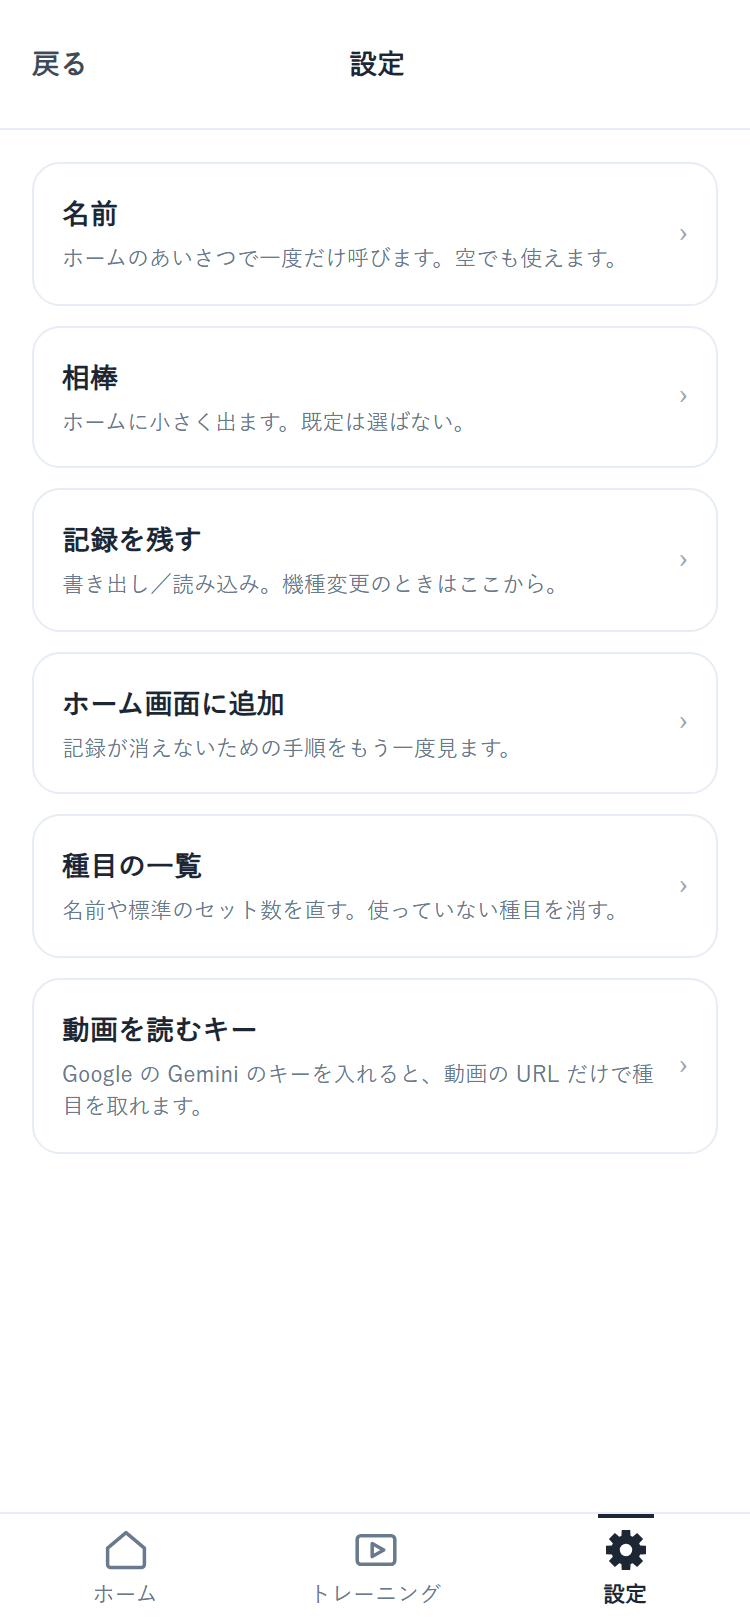
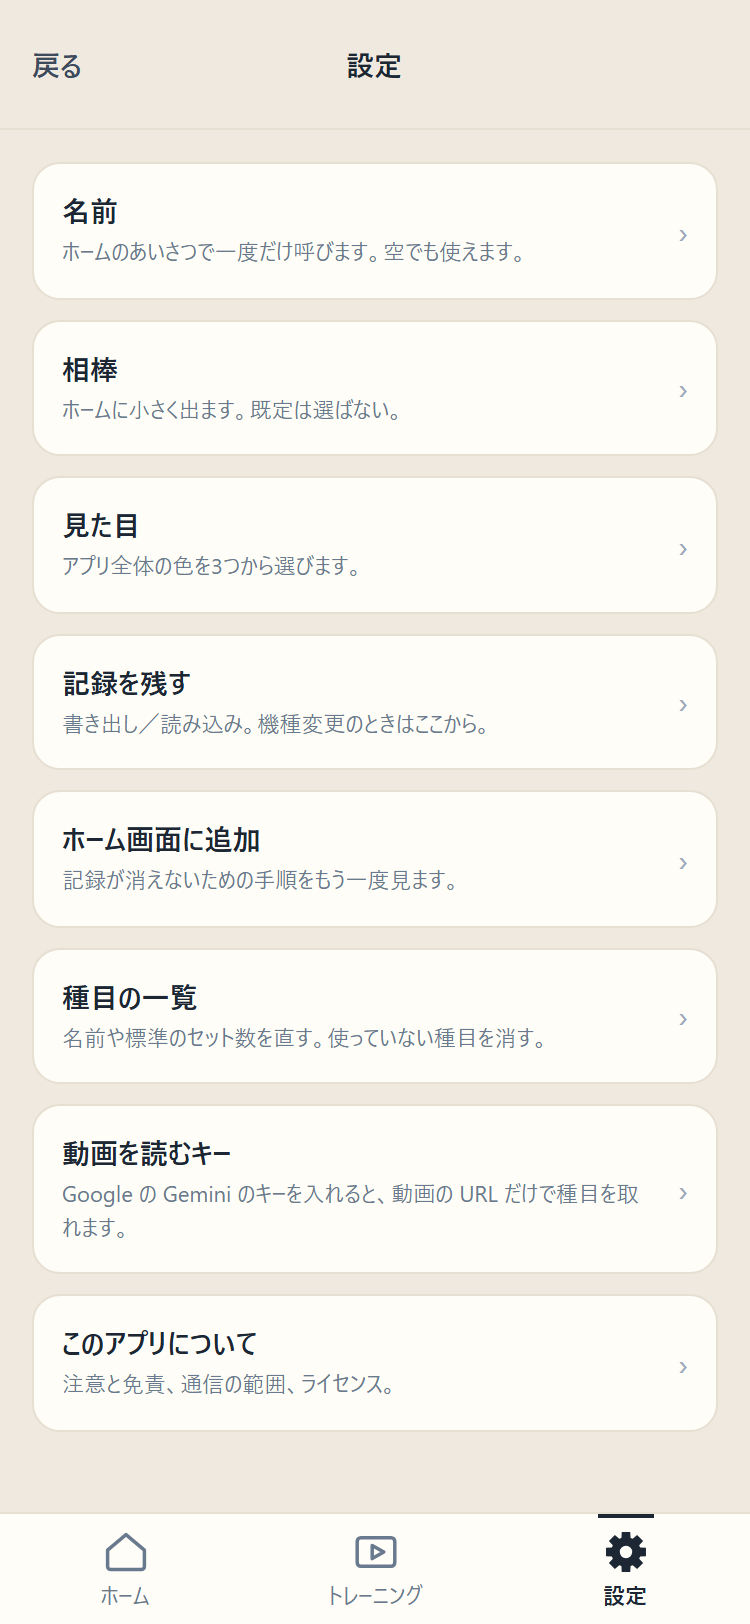
manual: screens reshot on the new look; text for the home order, セルフトレ, the month calendar, and the 見た目 setting

diff --git a/docs/manual.html b/docs/manual.html
@@ -16,14 +16,14 @@ hr{border:0;border-top:1px solid #dce3ec;margin:32px 0}
 strong{color:#0f1a26}
 p{margin:10px 0}
 </style></head>
-<body><main><h1 id="_1">トレ録 使い方</h1>
+<body><main><h1 id="トレ録-使い方">トレ録 使い方</h1>
 <p>自宅でやったトレーニングを、その場で残しておくための記録帳です。
 スマホのブラウザで開いて、ホーム画面に追加すれば、それがインストールです。
 アカウント登録はありません。サーバーもありません。記録は、あなたのスマホの中に保存されます。外に保存されたり、外に出たりすることはありません。</p>
 <p>このページの画面は、すべて架空の例（ニックネーム「たなか」・動画の題名・種目）で撮ったものです。動画のサムネイルは「動画のサムネイル（例）」という灰色の板に置き換えています。</p>
 <p><strong>開く場所：</strong> https://memory2meaning-lgtm.github.io/toreroku/</p>
 <hr />
-<h2 id="_2">目次</h2>
+<h2 id="目次">目次</h2>
 <ol>
 <li><a href="#1-入れ方">入れ方（iPhone／Android）</a></li>
 <li><a href="#2-はじめて開いたときの三つの問い">はじめて開いたときの三つの問い</a></li>
@@ -33,10 +33,11 @@ p{margin:10px 0}
 <li><a href="#6-ふだんは外す">ふだんは外す</a></li>
 <li><a href="#7-記録を残す書き出し機種変更">記録を残す（書き出し・機種変更）</a></li>
 <li><a href="#8-相棒とニックネーム">相棒とニックネーム</a></li>
-<li><a href="#9-よくある質問">よくある質問</a></li>
+<li><a href="#9-見た目を変える">見た目を変える</a></li>
+<li><a href="#10-よくある質問">よくある質問</a></li>
 </ol>
 <hr />
-<h2 id="1">1. 入れ方</h2>
+<h2 id="1-入れ方">1. 入れ方</h2>
 <p>スマホのブラウザで、上の URL を開きます。開けたら、<strong>ホーム画面に追加</strong>してください。見た目のためではなく、記録が消えないための手順です。</p>
 <h3 id="iphonesafari">iPhone（Safari）</h3>
 <ol>
@@ -54,7 +55,7 @@ p{margin:10px 0}
 <p>アプリの中でも、この案内が出ます（Android で開いたときの文面です）。あとで見たいときは、<strong>設定 → ホーム画面に追加</strong> から、いつでも開けます。</p>
 <p>Android では、ホーム画面に追加すると YouTube の共有先に「トレ録」が出るようになります。動画を見ながら共有 → トレ録 と押すと、その動画からトレーニングメニューを作れます。</p>
 <hr />
-<h2 id="2">2. はじめて開いたときの三つの問い</h2>
+<h2 id="2-はじめて開いたときの三つの問い">2. はじめて開いたときの三つの問い</h2>
 <p>はじめて開くと、三つだけ聞かれます。どれも飛ばせますし、あとから <strong>設定</strong> で変えられます。</p>
 <table>
 <thead>
@@ -85,11 +86,11 @@ p{margin:10px 0}
 <p><img src="images/01_welcome.png" width="300" alt="1 / 3 トレ録へようこそ"> <img src="images/02_nickname.png" width="300" alt="2 / 3 何とお呼びすればいいでしょうか"> <img src="images/03_companion.png" width="300" alt="3 / 3 相棒をひとつ"></p>
 <p>三つ答えると、ホーム画面に追加の案内が出て、そのあと最初の画面（ホーム）になります。</p>
 <p><img src="images/05_home_empty.png" width="300" alt="まだ記録が無いホーム"></p>
-<p>ホームには、今週の実績（曜日ごとの四角）、きょうの合計、<strong>記録する</strong> のボタン、きょうの記録が並びます。ホームは見るための画面で、記録は <strong>記録する</strong> から行います。</p>
+<p>ホームには、今週の実績（曜日ごとの四角）、きょう動いた分、今日の記録、いちばん下に <strong>記録する</strong> のボタンが並びます（その日に記録があると <strong>もう1つ記録する</strong> に変わります）。ホームは見るための画面で、記録は <strong>記録する</strong> から行います。</p>
 <hr />
-<h2 id="3">3. トレーニングメニューを作る</h2>
+<h2 id="3-トレーニングメニューを作る">3. トレーニングメニューを作る</h2>
 <p>トレーニングメニューは、動画の URL と種目をまとめたものです。1つ作ると、やった日に丸を押すだけで残ります。作り方は三つあります。</p>
-<h3 id="3-1-url">3-1. 動画の URL を貼る（いちばん簡単）</h3>
+<h3 id="3-1-動画の-url-を貼るいちばん簡単">3-1. 動画の URL を貼る（いちばん簡単）</h3>
 <ol>
 <li>ホームの <strong>記録する</strong> を押す（まだ1つも無いときは、貼る欄がそのまま出ます）</li>
 <li>YouTube で動画を開き、<strong>共有</strong> から URL をコピーする</li>
@@ -99,7 +100,7 @@ p{margin:10px 0}
 <p>題名は動画から自動で入ります。長ければ <strong>短くする</strong>、自分で付けたければ <strong>消して自分で書く</strong> を押します。種目は無くてもかまいません。右上の <strong>保存</strong> で出来上がりです。</p>
 <p><img src="images/07_edit_title.png" width="300" alt="URL を貼ると題名が入った編集画面"></p>
 <p>2つ目からは、下の <strong>トレーニング</strong> のタブを開き、一覧のいちばん下の <strong>＋ トレーニングメニューを追加する</strong> から同じように作ります。</p>
-<h3 id="3-2">3-2. 概要欄を貼って種目にする</h3>
+<h3 id="3-2-概要欄を貼って種目にする">3-2. 概要欄を貼って種目にする</h3>
 <p>動画の概要欄に「3:20 スクワット 12回」のような時間つきの行があるときは、それを種目にできます。</p>
 <ol>
 <li>編集画面の <strong>概要欄を貼る</strong> を押す</li>
@@ -108,7 +109,7 @@ p{margin:10px 0}
 </ol>
 <p>時間の行が種目になり、行末の「12回」は回数に、次の行までの時間の差は秒数になります。「はじめに」「まとめ」のような行は除かれます。入った種目の名前・回数・秒数は、その場で直せます。</p>
 <p><img src="images/08_edit_exercises.png" width="300" alt="概要欄から3種目が入った編集画面"></p>
-<h3 id="3-3-ai-gemini">3-3. 動画を AI に読ませる（自分の Gemini のキーを使う）</h3>
+<h3 id="3-3-動画を-ai-に読ませる自分の-gemini-のキーを使う">3-3. 動画を AI に読ませる（自分の Gemini のキーを使う）</h3>
 <p>Google の Gemini に動画そのものを読ませて、種目・セット数・回数か秒数を取り出す方法です。使うには、<strong>あなた自身の Gemini の API キー</strong>が要ります。</p>
 <ol>
 <li><strong>設定 → 動画を読むキー</strong> を開く</li>
@@ -124,30 +125,30 @@ p{margin:10px 0}
 <li>キーを入れなければ、この通信は一切起きません</li>
 </ul>
 <hr />
-<h2 id="4">4. やった日に記録する</h2>
-<h3 id="4-1">4-1. 全部やった日：行末の丸を押す</h3>
+<h2 id="4-やった日に記録する">4. やった日に記録する</h2>
+<h3 id="4-1-全部やった日行末の丸を押す">4-1. 全部やった日：行末の丸を押す</h3>
 <p>ホームの <strong>記録する</strong> を押すと、トレーニングメニューの一覧が出ます。やったメニューの<strong>行末の丸</strong>を押すだけです。押すと丸が塗られて時刻が入り、ホームに戻ります。</p>
 <p><img src="images/10_record_ready.png" width="300" alt="記録する画面。行末に空の丸"> <img src="images/11_home_done.png" width="300" alt="記録したあとのホーム"></p>
-<h3 id="4-2">4-2. 一部だけやった日：行を押して種目を選ぶ</h3>
+<h3 id="4-2-一部だけやった日行を押して種目を選ぶ">4-2. 一部だけやった日：行を押して種目を選ぶ</h3>
 <p>丸ではなく、<strong>行そのもの</strong>を押すと、種目の一覧が開きます。やった種目だけに印を付けて、下の <strong>選んだ○種目を記録する</strong> を押します。トレーニングメニューそのものは変わりません。</p>
 <p><img src="images/15_partial.png" width="300" alt="やった種目だけ選ぶ画面"></p>
-<h3 id="4-3">4-3. トレーニングメニューに無いものをやった日</h3>
+<h3 id="4-3-トレーニングメニューに無いものをやった日">4-3. トレーニングメニューに無いものをやった日</h3>
 <p>一覧のいちばん下の <strong>トレーニングメニュー以外をやった</strong> を押します。種目の名前を書いて <strong>足す</strong> か、よく記録している種目から <strong>足す</strong> を押し、<strong>選んだ○種目を記録</strong> で残ります。</p>
 <p><img src="images/16_manual.png" width="300" alt="トレーニングメニュー以外をやった画面"></p>
-<p>手で選んだ記録は、1日に1つです。同じ日にもう一度開くと、さきほどの種目が入った状態で開き、足した分が加わります。</p>
+<p>こうして残した記録は <strong>セルフトレ</strong> という名前で並びます（動画に紐づかない記録の絵が付きます）。セルフトレは1日に1つです。同じ日にもう一度開くと、さきほどの種目が入った状態で開き、足した分が加わります。</p>
 <hr />
-<h2 id="5">5. 過去の日を直す</h2>
-<p>ホームの <strong>今週の実績</strong> の四角を押すと、その日から前の記録の一覧（履歴）が開きます。直したい記録の行を押すと <strong>記録を修正</strong> の画面になります。</p>
-<p><img src="images/17_history.png" width="300" alt="履歴の画面"> <img src="images/18_edit_record.png" width="300" alt="記録を修正の画面"></p>
+<h2 id="5-過去の日を直す">5. 過去の日を直す</h2>
+<p>ホームの <strong>前の日の記録を見る</strong> を押すと、月のカレンダーが開きます（<strong>今週の実績</strong> の四角を押しても、その日が選ばれた状態で開きます）。記録のあった日は四角が塗られ、記録が多い日ほど濃くなります。日を押すと、その日の記録が下に出ます。記録の行を押すと <strong>記録を修正</strong> の画面になります。記録が無い日を押すと <strong>この日に記録する</strong> が出て、その日付で記録できます。</p>
+<p><img src="images/17_history.png" width="300" alt="前の日の記録（月のカレンダー）の画面"> <img src="images/18_edit_record.png" width="300" alt="記録を修正の画面"></p>
 <ul>
 <li><strong>日付</strong>・<strong>実施時刻</strong> を変えられます（別の日へ移せます）</li>
 <li>種目のセット数・回数を直す、種目を消す、種目を追加する</li>
 <li><strong>メモ</strong> を書く</li>
 <li>いちばん下の <strong>この記録を削除</strong> で消す（確認が出てから消えます）</li>
 </ul>
-<p>きょうの記録は、ホームの <strong>きょうの記録</strong> の行を押しても同じ画面が開きます。</p>
+<p>今日の記録は、ホームの <strong>今日の記録</strong> の行を押しても同じ画面が開きます。</p>
 <hr />
-<h2 id="6">6. ふだんは外す</h2>
+<h2 id="6-ふだんは外す">6. ふだんは外す</h2>
 <p>動画の概要欄や AI から自動で入った種目には、<strong>ふだんは外す</strong> の印が付けられます。「動画には入っているけれど、自分はこれをやらない」という種目のためのものです。</p>
 <ol>
 <li><strong>トレーニング</strong> のタブで、メニューの行を押して編集画面を開く</li>
@@ -156,22 +157,48 @@ p{margin:10px 0}
 <p><img src="images/09_edit_skip.png" width="300" alt="スクワットに ふだんは外す の印を付けた編集画面"></p>
 <p>印を付けた種目は、行末の丸を押したときの記録に入りません。「一部だけ」の画面では下の方に寄せて出るので、その日だけやったときはそこで選べます。印はいつでも外せます。</p>
 <hr />
-<h2 id="7">7. 記録を残す（書き出し・機種変更）</h2>
+<h2 id="7-記録を残す書き出し機種変更">7. 記録を残す（書き出し・機種変更）</h2>
 <p><strong>設定 → 記録を残す</strong> を開きます。</p>
 <p><img src="images/13_settings.png" width="300" alt="設定の画面"> <img src="images/19_export.png" width="300" alt="記録を残すの画面"></p>
-<h3 id="_3">書き出す</h3>
+<h3 id="書き出す">書き出す</h3>
 <p><strong>ファイルに書き出す</strong> を押すと、トレーニングメニューと記録をまとめた1つの JSON ファイルができます。ときどき書き出して、手元に残しておくのが確実です。</p>
-<h3 id="_4">読み込む（機種変更）</h3>
+<h3 id="読み込む機種変更">読み込む（機種変更）</h3>
 <p>新しいスマホでトレ録を開き、<strong>設定 → 記録を残す → ファイルを選ぶ</strong> で、書き出したファイルを選びます。読み込むと、<strong>いまの記録は消えて</strong>ファイルの中身に置き換わります。読み込む前に、いまの分を書き出しておいてください。</p>
 <p>書き出したファイルに、Gemini のキーは入りません。</p>
 <hr />
-<h2 id="8">8. 相棒とニックネーム</h2>
+<h2 id="8-相棒とニックネーム">8. 相棒とニックネーム</h2>
 <p><strong>設定 → 相棒</strong> で、絵を選び直したり、選ばないに戻したりできます。相棒はホームの右下に小さく出て、ときどきまばたきします。名前はありません。</p>
 <p><img src="images/21_companion_setting.png" width="300" alt="相棒を選ぶ画面"> <img src="images/22_nickname_setting.png" width="300" alt="名前の画面"></p>
 <p><strong>設定 → 名前</strong> でニックネームを変えられます。ニックネームは、アプリを開いたときのあいさつで一度だけ呼びます。そのあとは呼びません。</p>
 <p>ホームの上には、相棒からの一言が1行だけ出ます。時間帯のあいさつ、はじめての日、その日まだ記録が無いこと、久しぶりに開いたこと、今週の日数など、<strong>見たことを言うだけ</strong>です。</p>
 <hr />
-<h2 id="9">9. よくある質問</h2>
+<h2 id="9-見た目を変える">9. 見た目を変える</h2>
+<p><strong>設定 → 見た目</strong> で、アプリ全体の色を三つから選べます。文字の大きさや並び方は変わりません。</p>
+<table>
+<thead>
+<tr>
+<th>名前</th>
+<th>見た目</th>
+</tr>
+</thead>
+<tbody>
+<tr>
+<td>紙（既定）</td>
+<td>生成りの地・クリーム色のカード</td>
+</tr>
+<tr>
+<td>いまのトレ録</td>
+<td>青みの灰色の地・白いカード</td>
+</tr>
+<tr>
+<td>夜</td>
+<td>暗い地・明るい文字</td>
+</tr>
+</tbody>
+</table>
+<p>選択中は、丸の中の ✓ と太い枠と「選択中」の札で分かります。選んだ見た目はスマホに保存され、次に開いたときもそのままです。</p>
+<hr />
+<h2 id="10-よくある質問">10. よくある質問</h2>
 <p><strong>記録はどこにありますか。</strong>
 あなたのスマホの中（ブラウザの保存領域）だけにあります。作者を含め、ほかの誰にも見えません。</p>
 <p><strong>記録が消えることはありますか。</strong>
